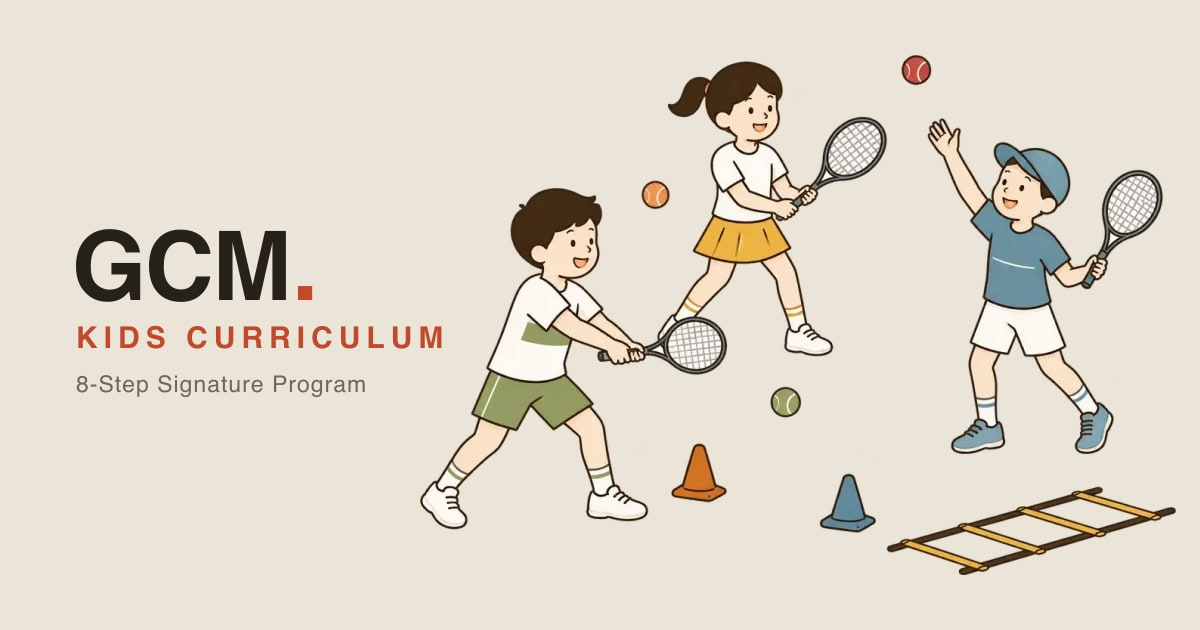
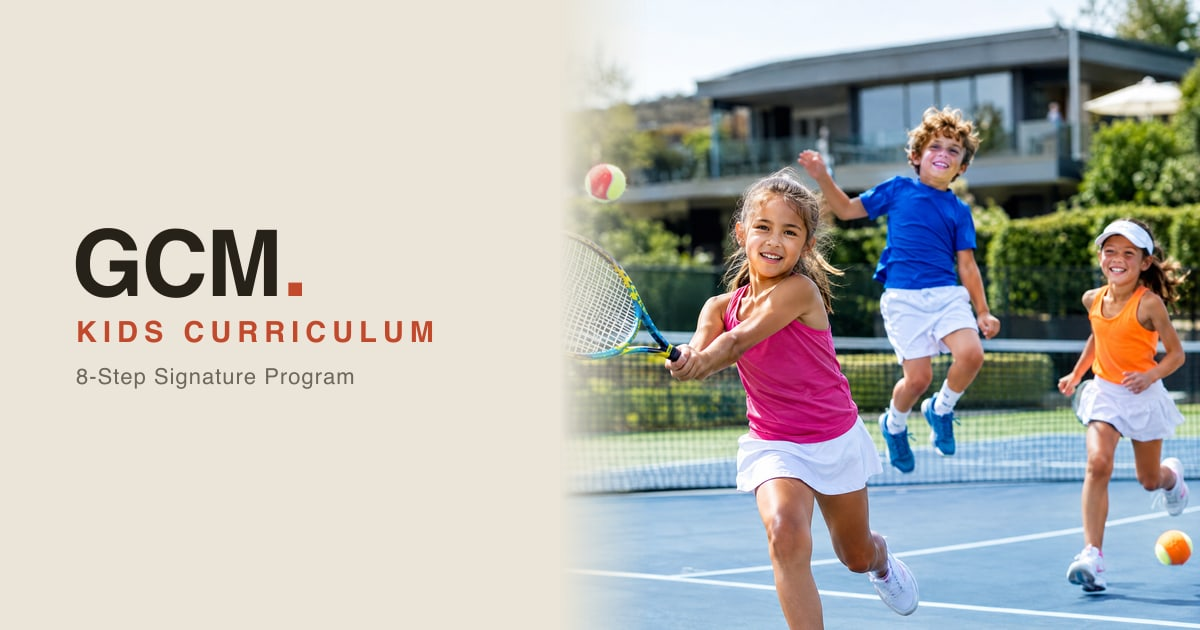
feat(kids): replace Kids Curriculum hero illustration with a realistic photo
Swap the hero illustration for a photorealistic image of energetic
kids playing at a premium tennis facility, framed in a rounded card on
the cream hero. Update the Kids Curriculum OG share image to match.

diff --git a/components/sections/KidsCurriculum.tsx b/components/sections/KidsCurriculum.tsx
@@ -154,20 +154,20 @@ export async function KidsCurriculum() {
           />
           </div>
 
-          <div className="relative mx-auto mt-4 w-full max-w-md lg:mt-0 lg:max-w-none">
+          <div className="relative mx-auto mt-4 w-full max-w-sm overflow-hidden rounded-3xl shadow-xl ring-1 ring-black/5 lg:mt-0 lg:max-w-none">
             <Image
-              src="/img/kids-curriculum-hero.webp"
+              src="/img/kids-curriculum-photo.webp"
               alt={pick(locale, {
-                ko: "레드볼·오렌지볼 단계로 즐겁게 테니스를 배우는 GCM 키즈",
-                en: "GCM kids joyfully learning tennis through the red-ball and orange-ball stages",
-                zh: "通过红球·橙球阶段快乐学习网球的 GCM 儿童",
-                ja: "レッドボール・オレンジボール段階で楽しくテニスを学ぶ GCM キッズ",
-                it: "Bambini GCM che imparano il tennis con le palline rosse e arancioni",
-                fr: "Des enfants GCM qui apprennent le tennis avec les balles rouges et oranges",
-                es: "Niños de GCM que aprenden tenis con las pelotas roja y naranja",
+                ko: "시설 좋은 테니스장에서 활기차게 테니스를 배우는 GCM 키즈",
+                en: "GCM kids actively learning tennis at a premium tennis facility",
+                zh: "在优质网球场地活力满满地学习网球的 GCM 儿童",
+                ja: "設備の整ったテニス施設で活発にテニスを学ぶ GCM キッズ",
+                it: "Bambini GCM che imparano il tennis con energia in un centro tennis di alto livello",
+                fr: "Des enfants GCM qui apprennent le tennis avec énergie dans un centre de tennis haut de gamme",
+                es: "Niños de GCM aprendiendo tenis con energía en unas instalaciones de tenis de primer nivel",
               })}
-              width={1000}
-              height={688}
+              width={900}
+              height={1125}
               priority
               className="h-auto w-full"
             />
